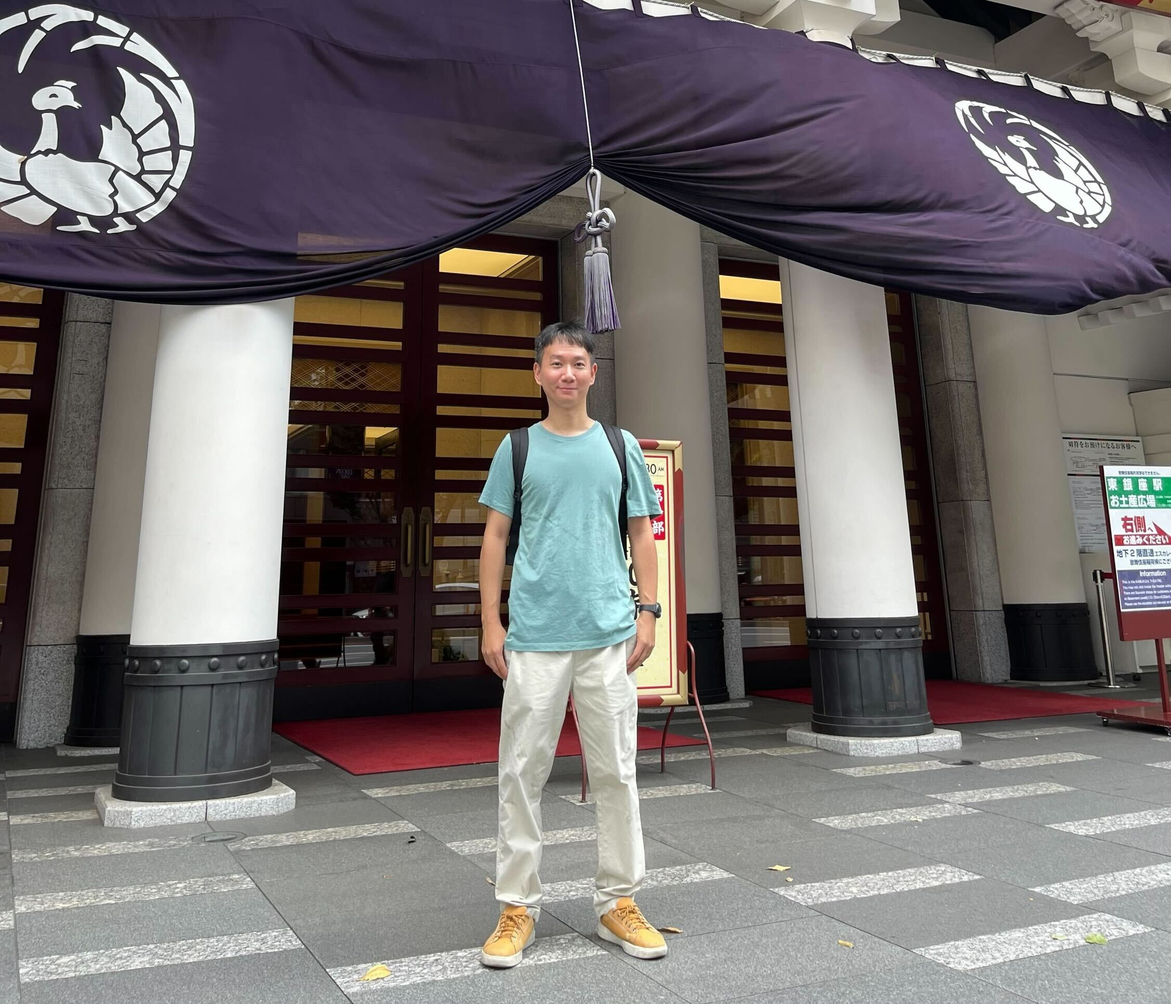
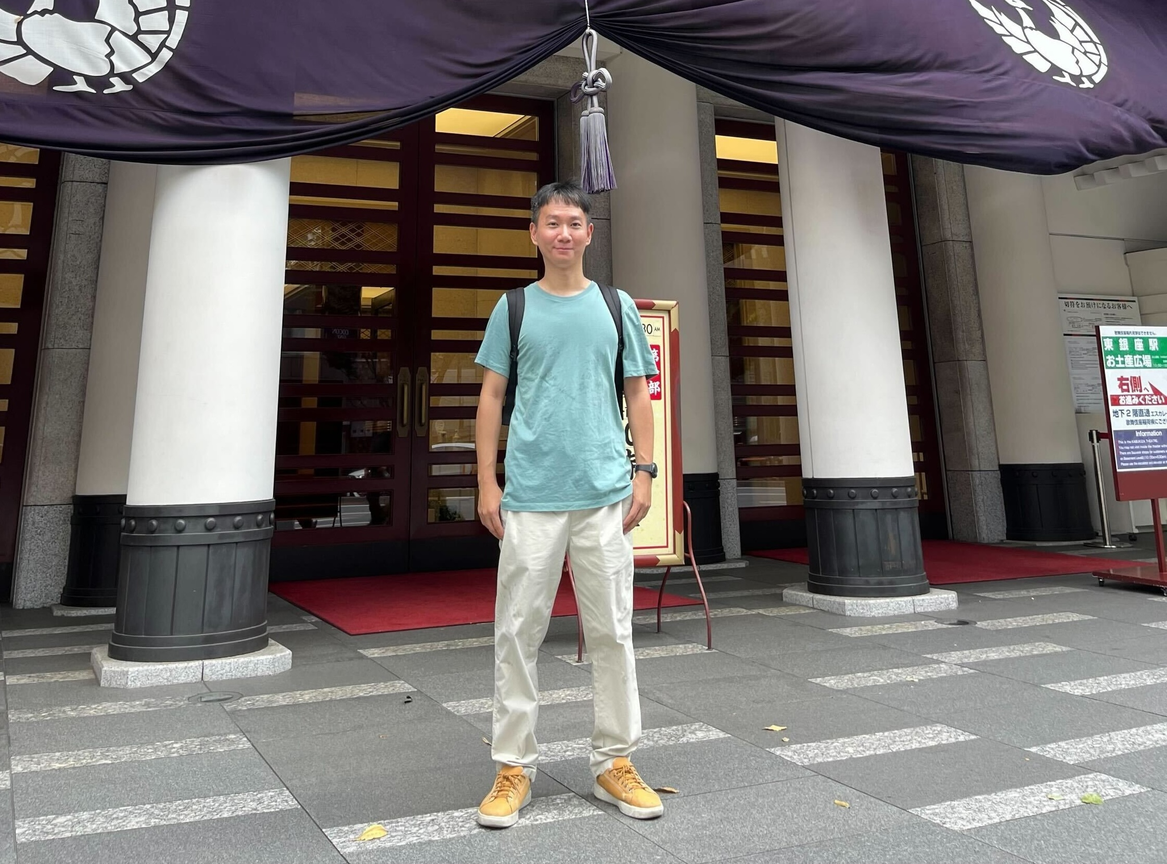
feat: update about img

diff --git a/src/pages/about.md b/src/pages/about.md
@@ -13,6 +13,8 @@ image: https://www.kdchang.net/img/logo.png
 🍀 #個人成長｜#心理勵志｜#職場人生｜#投資理財
 ```
 
+![KD Chang 張凱迪](/img/about-img-1.jpg)
+
 # 關於站長
 KD Chang 張凱迪，台灣大學，主修經濟學，臺大資管所畢業。是一個軟體工程師，也是一位 PM 產品專案經理和教育工作者。曾服務過上市科技電子公司、台灣 AI 人工智慧新創獨角獸公司、全球前三大瀏覽器製造商與電子商務平台，也曾參與數個新創組織的創辦和嘗試過多個網路產品服務的開發。同時也是 [CoderBridge 開發者技術內容創作分享與職涯發展平台](https://www.facebook.com/CoderBridgeTW) 創辦人、[TechBridge Weekly 技術週刊](http://weekly.techbridge.cc/) 、React 入門教學書[《從零開始學 ReactJS》](https://www.gitbook.com/book/kdchang/react101/details)作者和 [HackNTU 臺大黑客松](https://github.com/HackNTU) 的創辦人。同時具備電腦科學與社會科學的背景知識，致力於整合科技與人文，讓這個世界更加開放美好。
 
